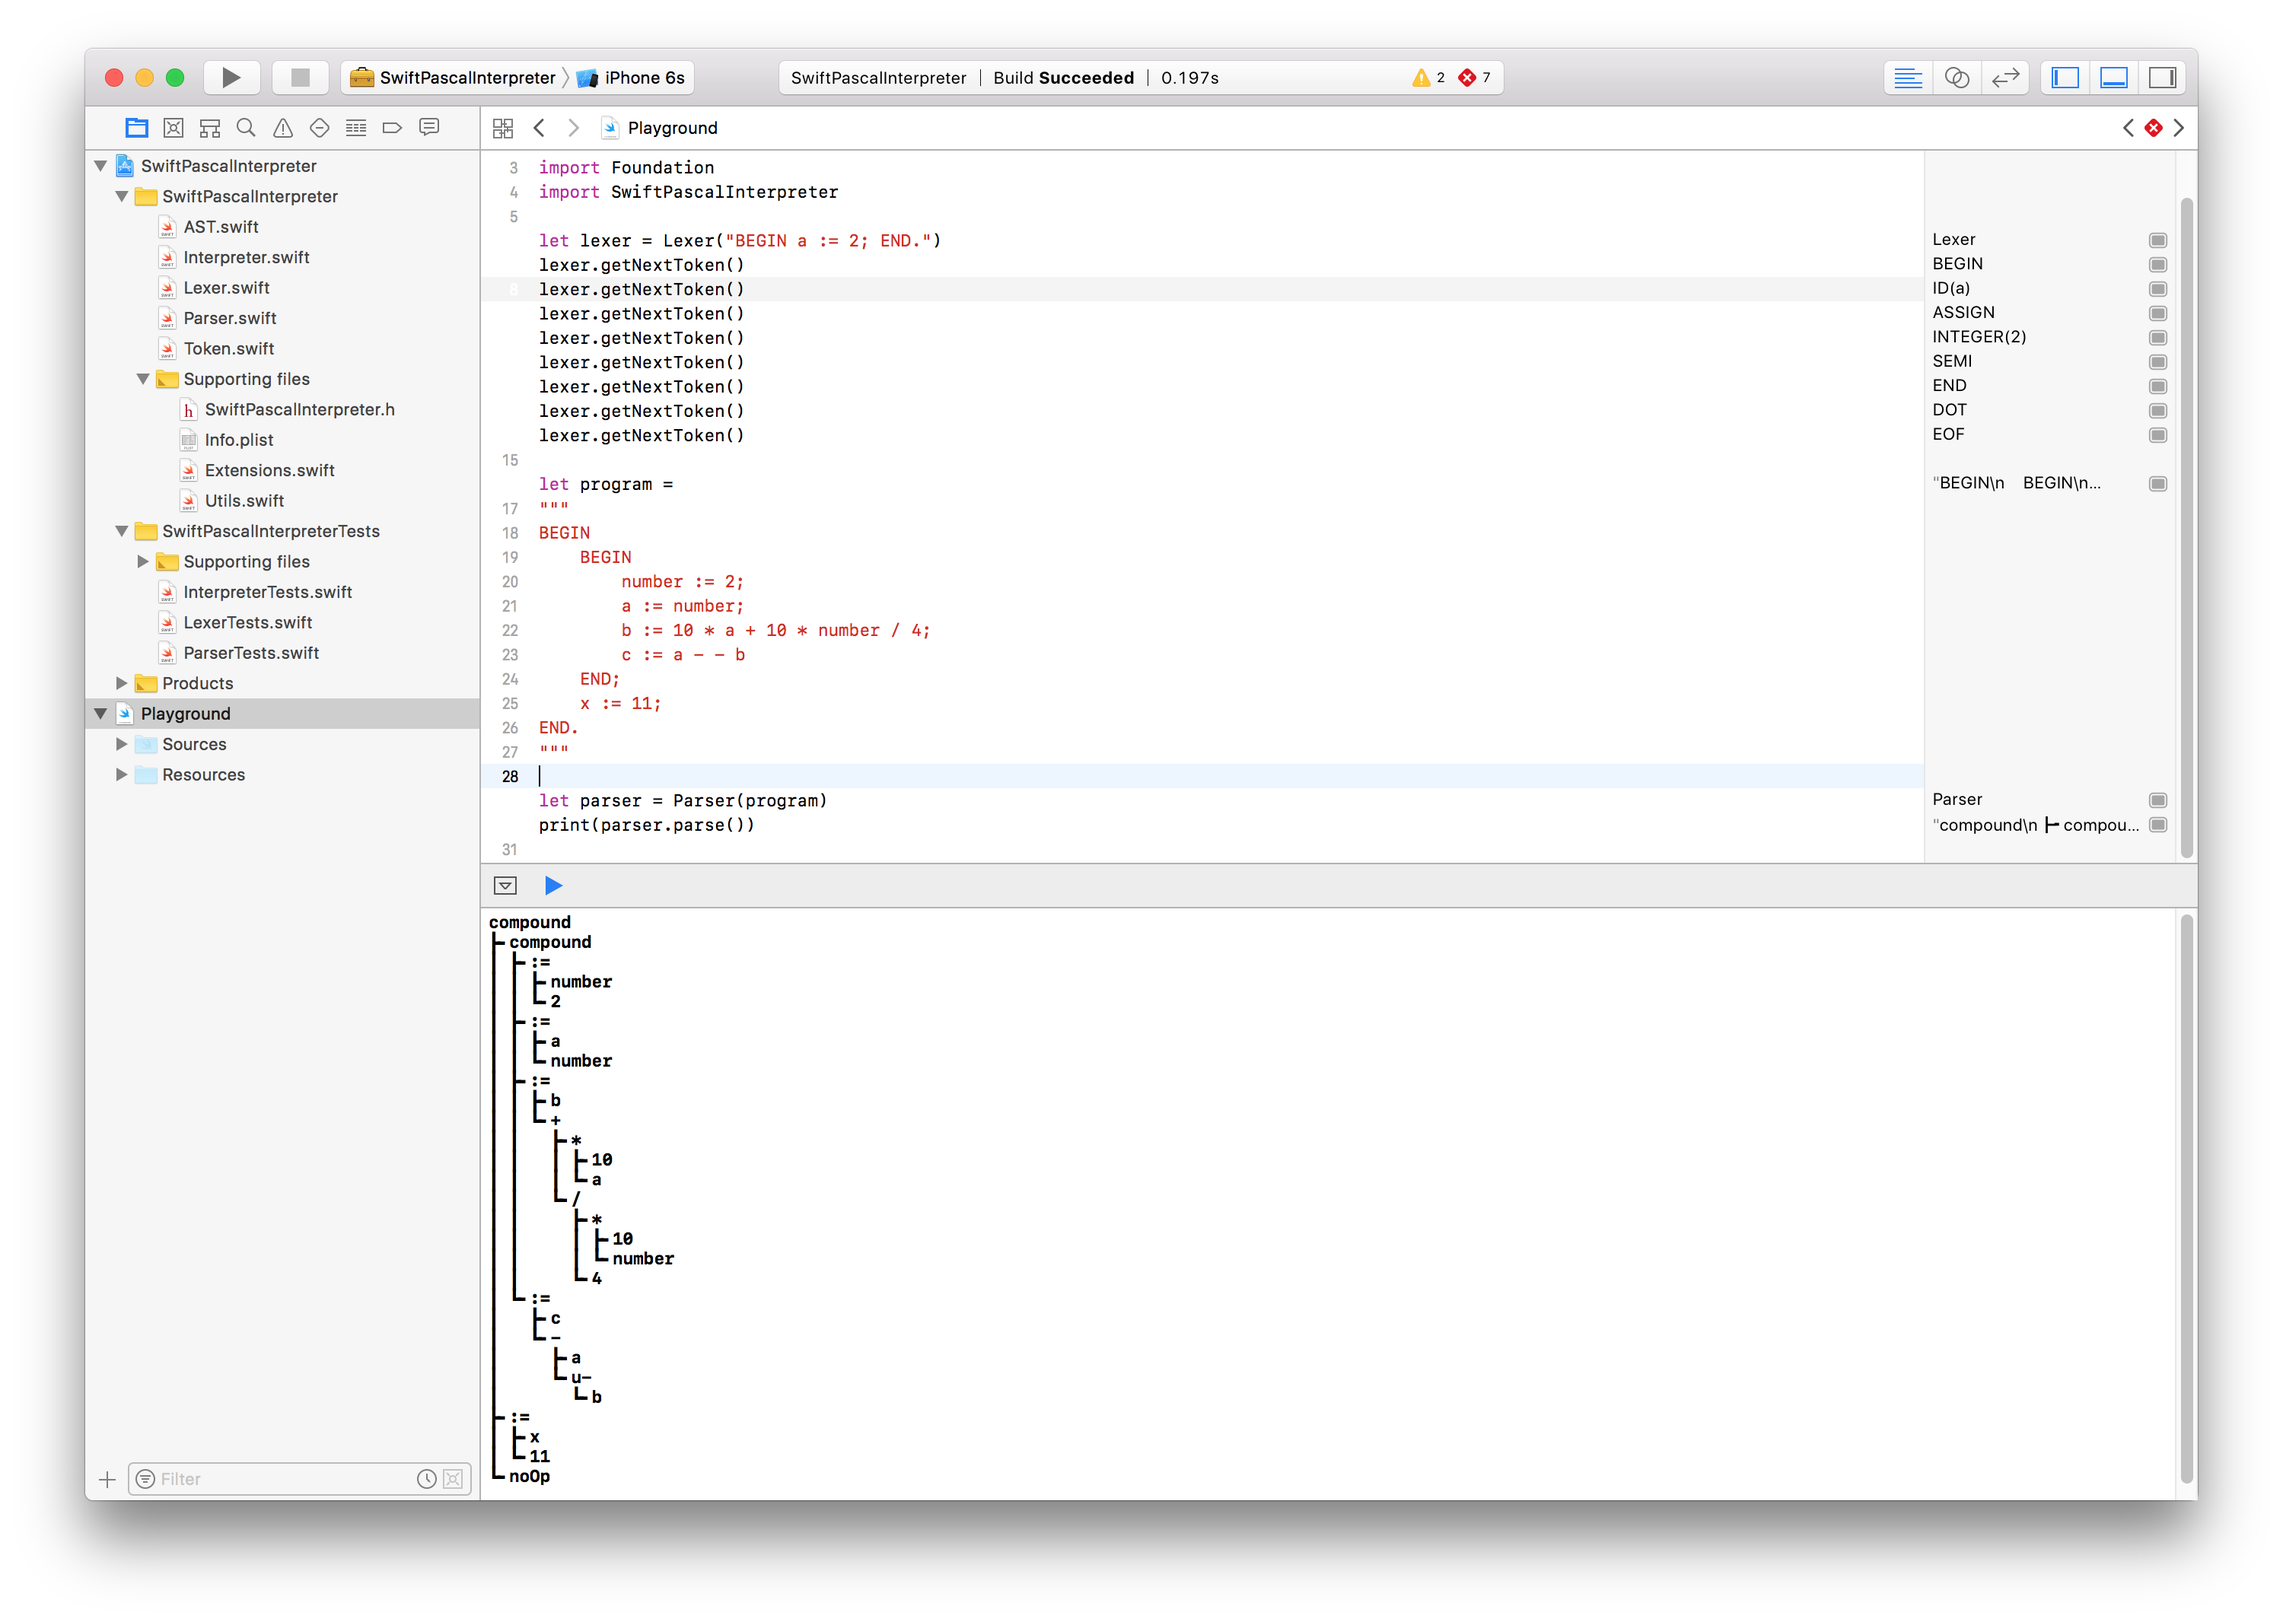
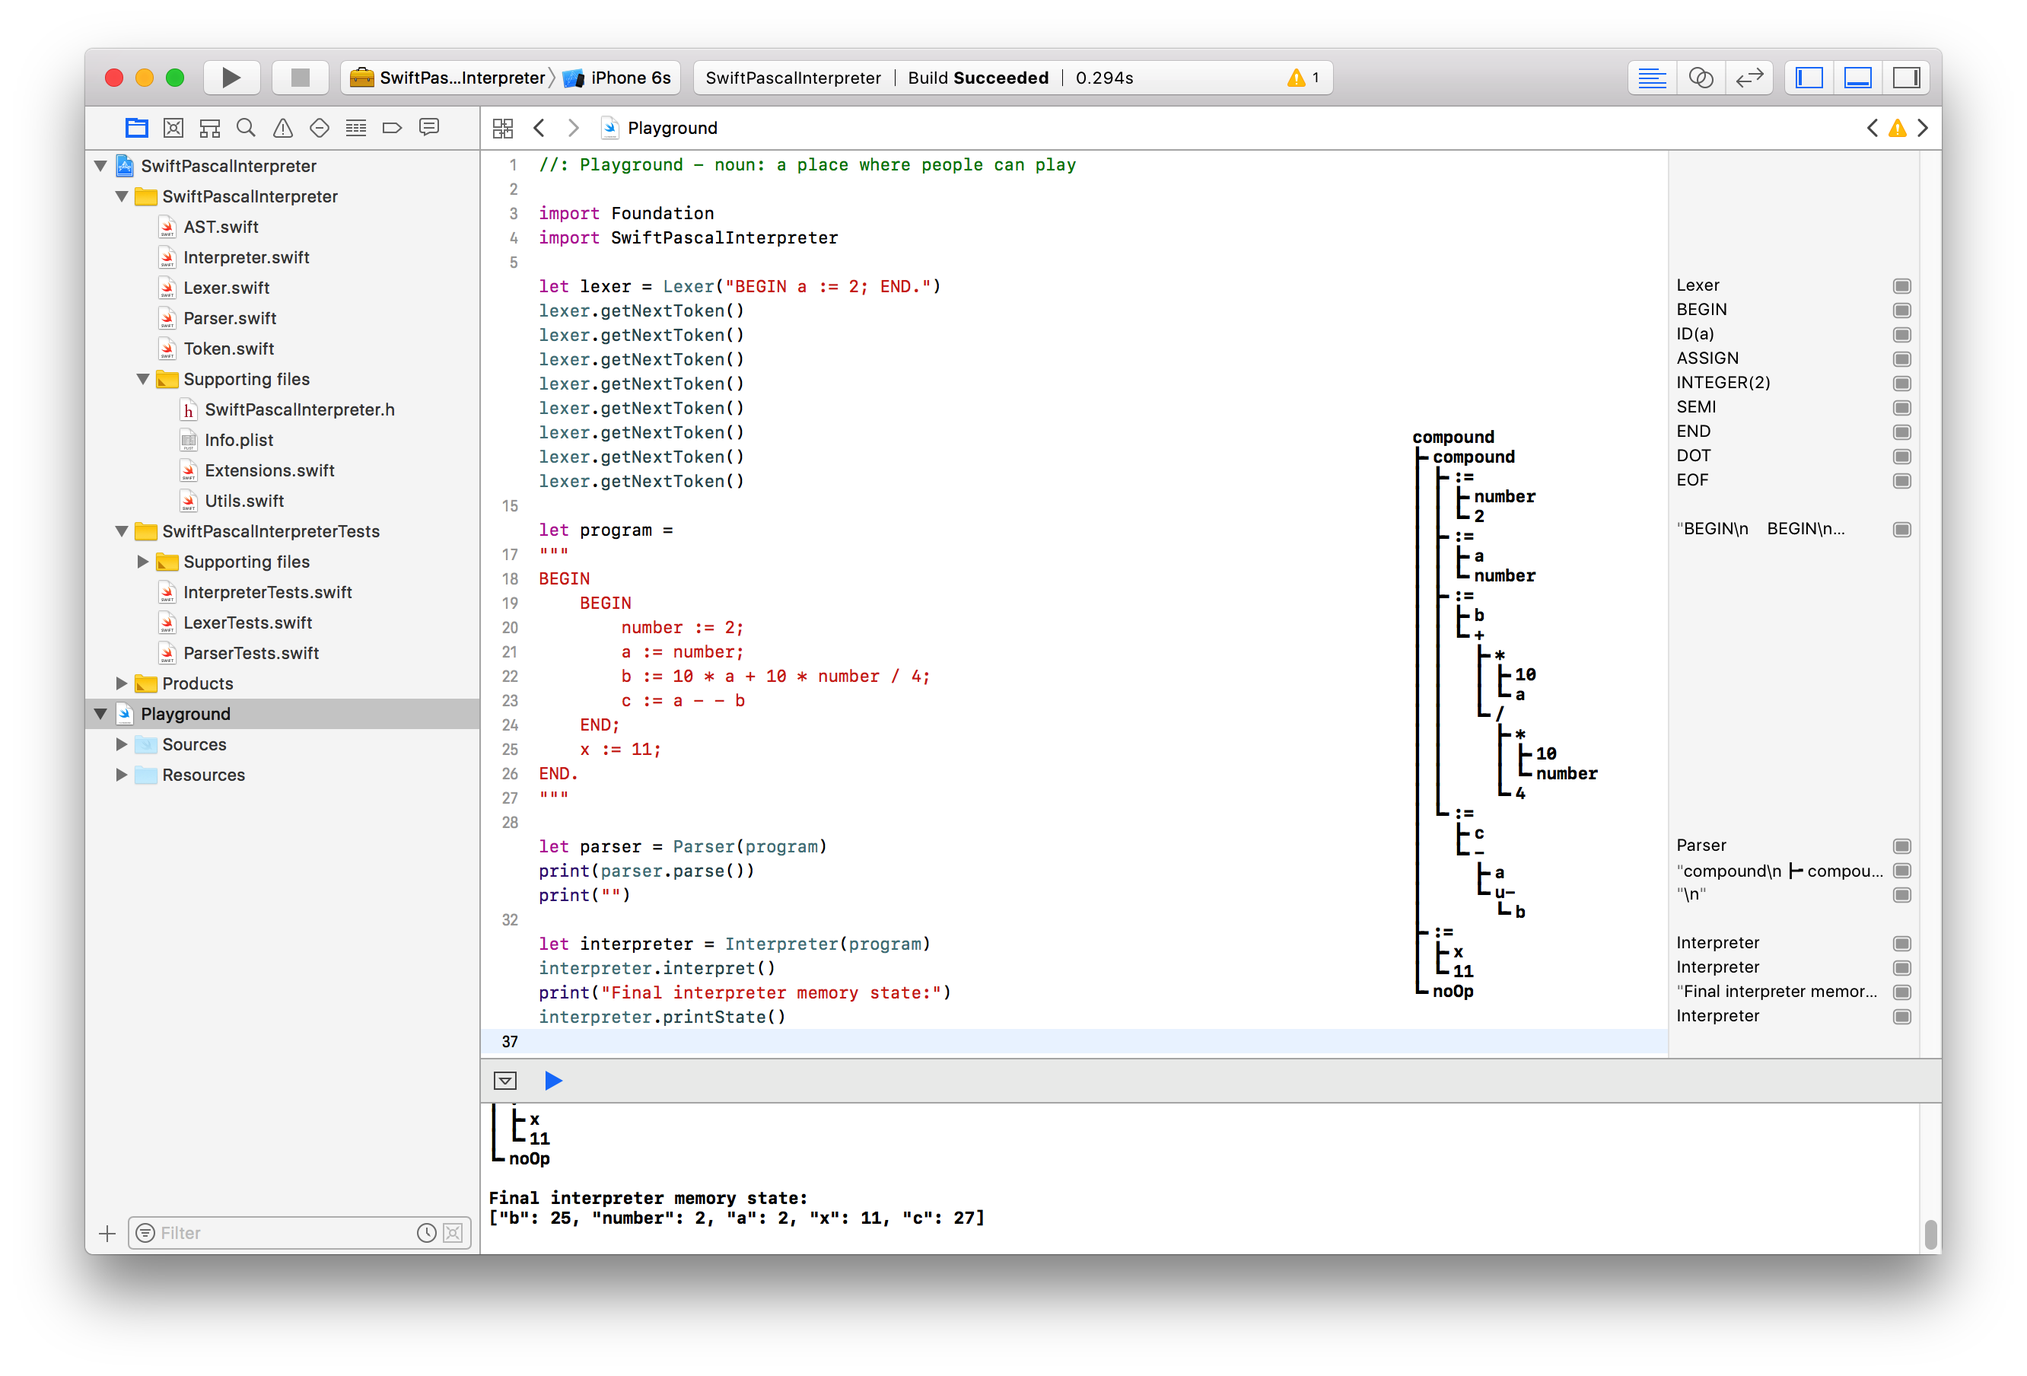
🌐 screenshots updated

diff --git a/Playground.playground/Contents.swift b/Playground.playground/Contents.swift
@@ -28,3 +28,9 @@ END.
 
 let parser = Parser(program)
 print(parser.parse())
+print("")
+
+let interpreter = Interpreter(program)
+interpreter.interpret()
+print("Final interpreter memory state:")
+interpreter.printState()
